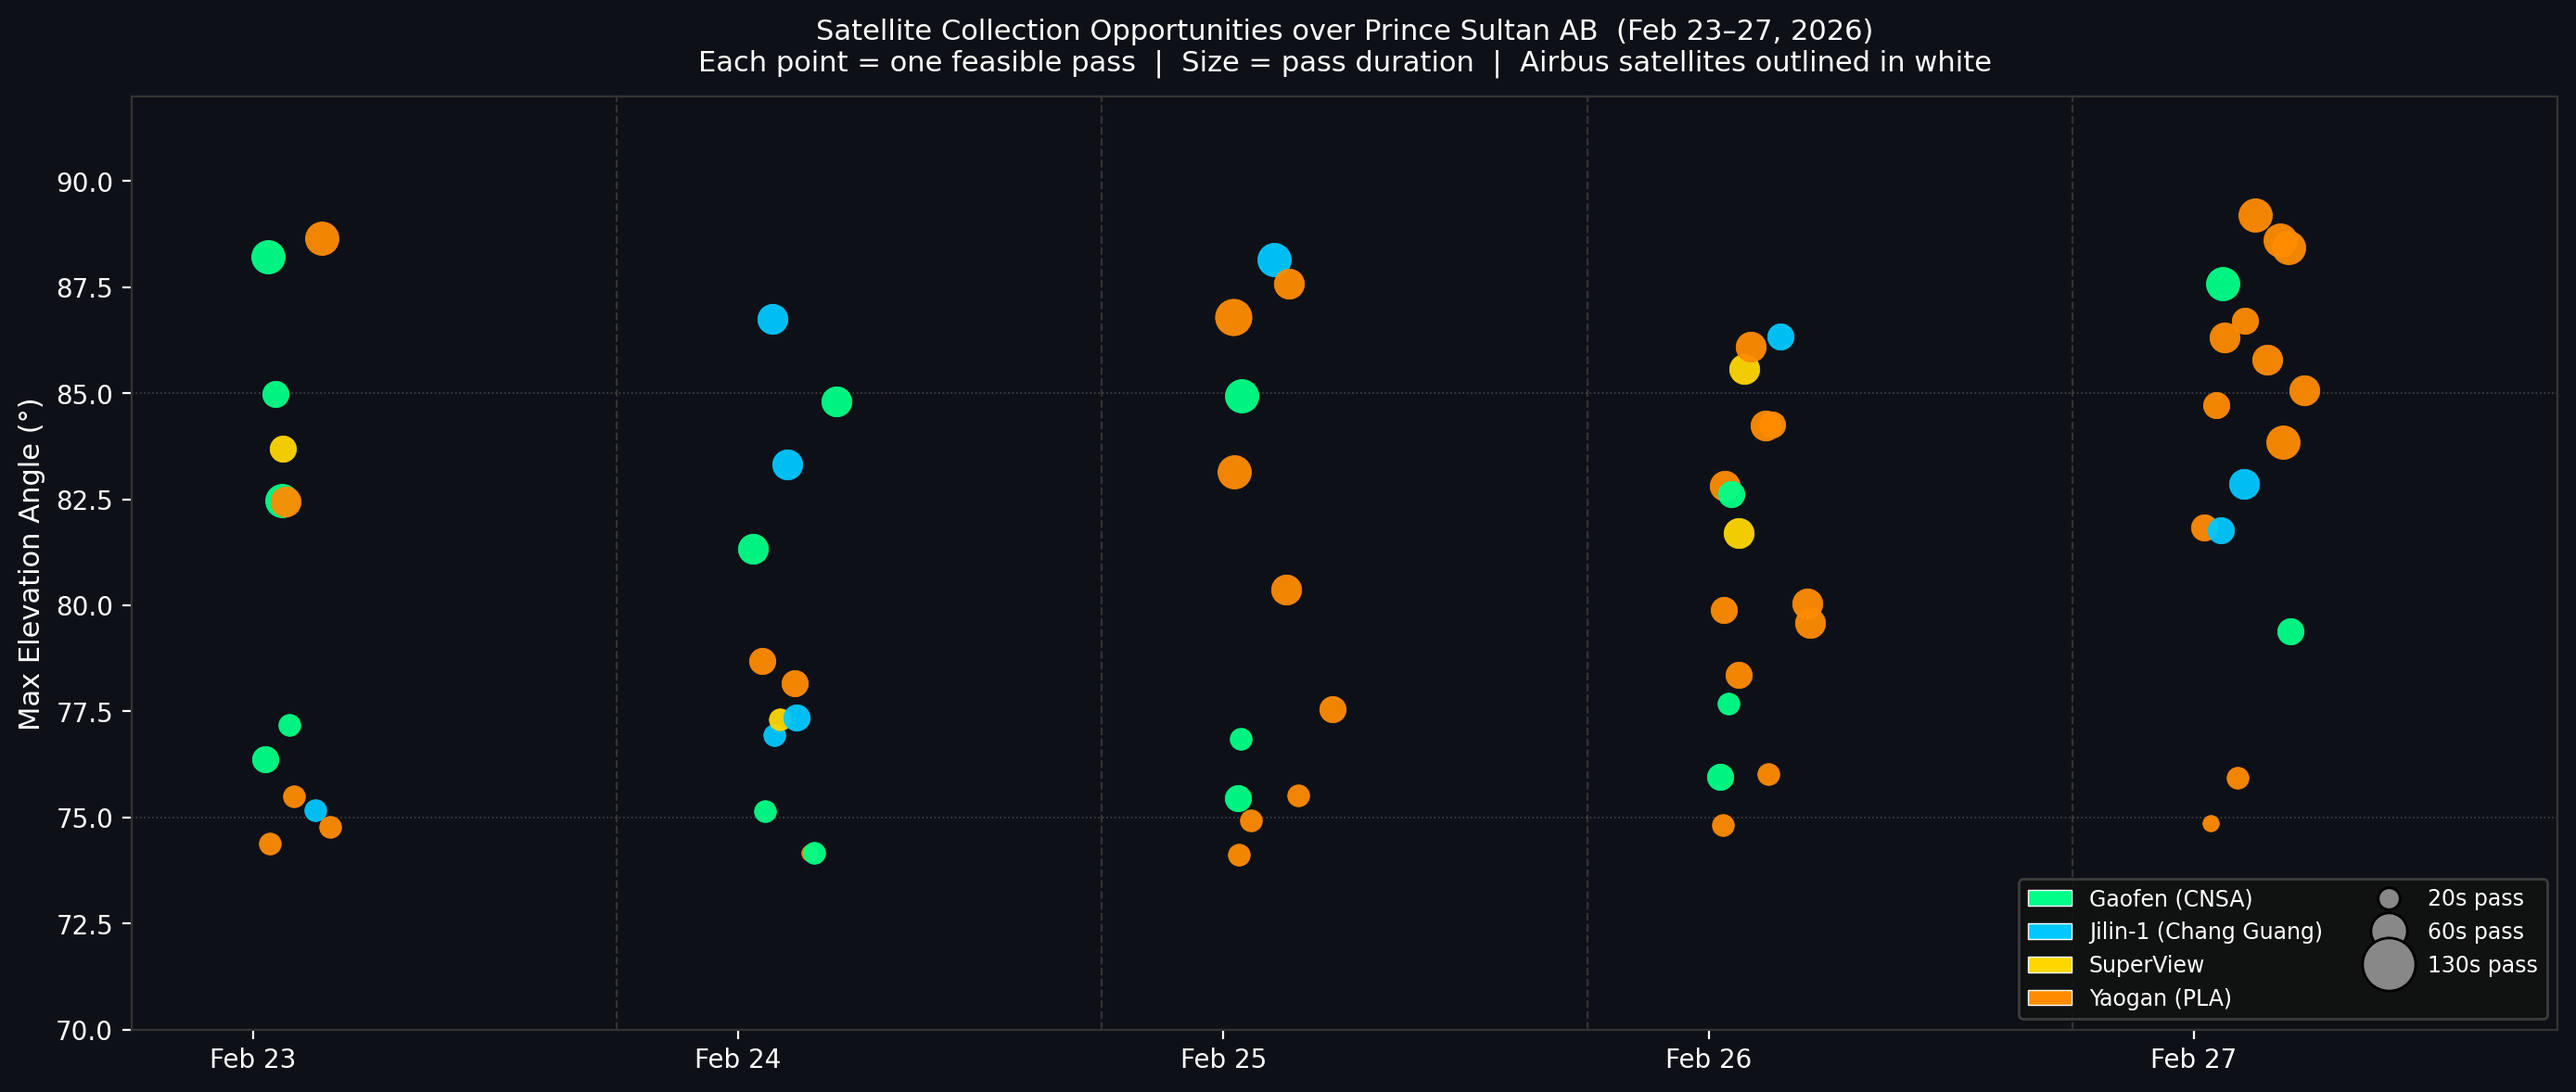
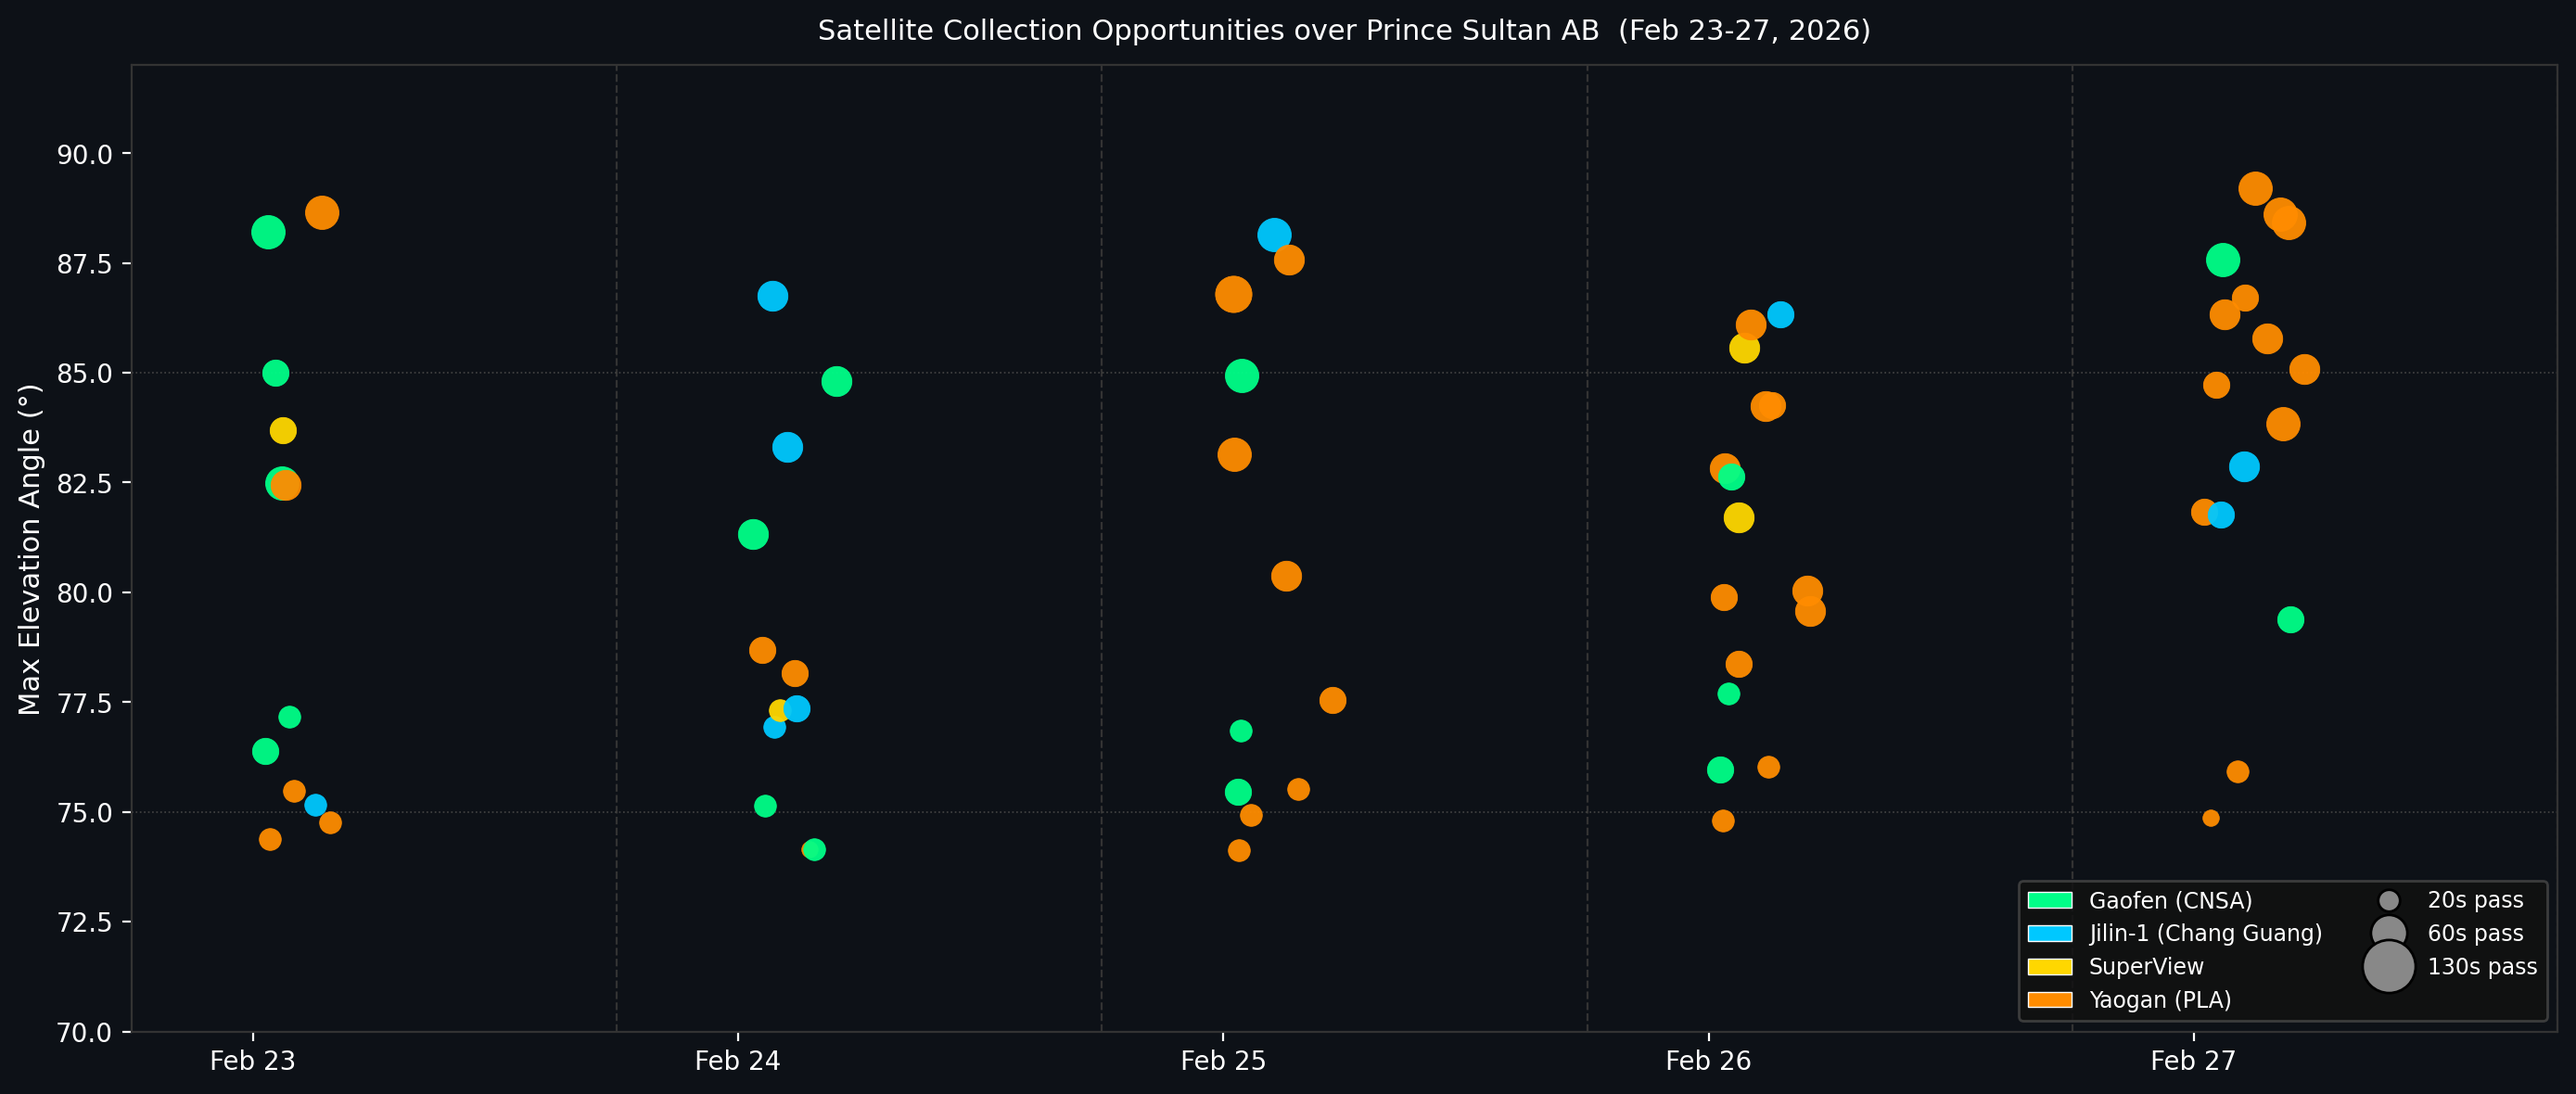
update viz and filepaths

diff --git a/graph_gen2.py b/graph_gen2.py
@@ -48,8 +48,8 @@ TARGET_LAT =  24.06242524
 TARGET_LON =  47.56129747
 TARGET_NAME = "Prince Sultan AB"
 
-CSV_PATH  = "pass_summary.csv"
-JSON_PATH = "passes.json"
+CSV_PATH  = "results/pass_summary.csv"
+JSON_PATH = "docs/passes.json"
 
 # Map extent (degrees) around target
 MAP_BUFFER = 3.0   # degrees
@@ -225,7 +225,7 @@ def fig1_ground_tracks(df, passes):
     ax.set_facecolor("#0d1117")
 
     plt.tight_layout()
-    out = "figure1_ground_tracks.png"
+    out = "results/figure1_ground_tracks.png"
     plt.savefig(out, dpi=200, bbox_inches="tight", facecolor="#0d1117")
     print(f"Saved: {out}")
     plt.close()
@@ -301,9 +301,7 @@ def fig2_timeline(df):
                     framealpha=0.85, ncol=2)
 
     ax.set_title(
-        "Satellite Collection Opportunities over Prince Sultan AB  (Feb 23–27, 2026)\n"
-        "Each point = one feasible pass  |  Size = pass duration  |  "
-        "Airbus satellites outlined in white",
+        "Satellite Collection Opportunities over Prince Sultan AB  (Feb 23-27, 2026)",
         color="white", fontsize=11, pad=10
     )
 
@@ -312,7 +310,7 @@ def fig2_timeline(df):
     ax.axhline(85, color="#444", linewidth=0.6, linestyle=":")
 
     plt.tight_layout()
-    out = "figure2_timeline.png"
+    out = "results/figure2_timeline.png"
     plt.savefig(out, dpi=200, bbox_inches="tight", facecolor="#0d1117")
     print(f"Saved: {out}")
     plt.close()
